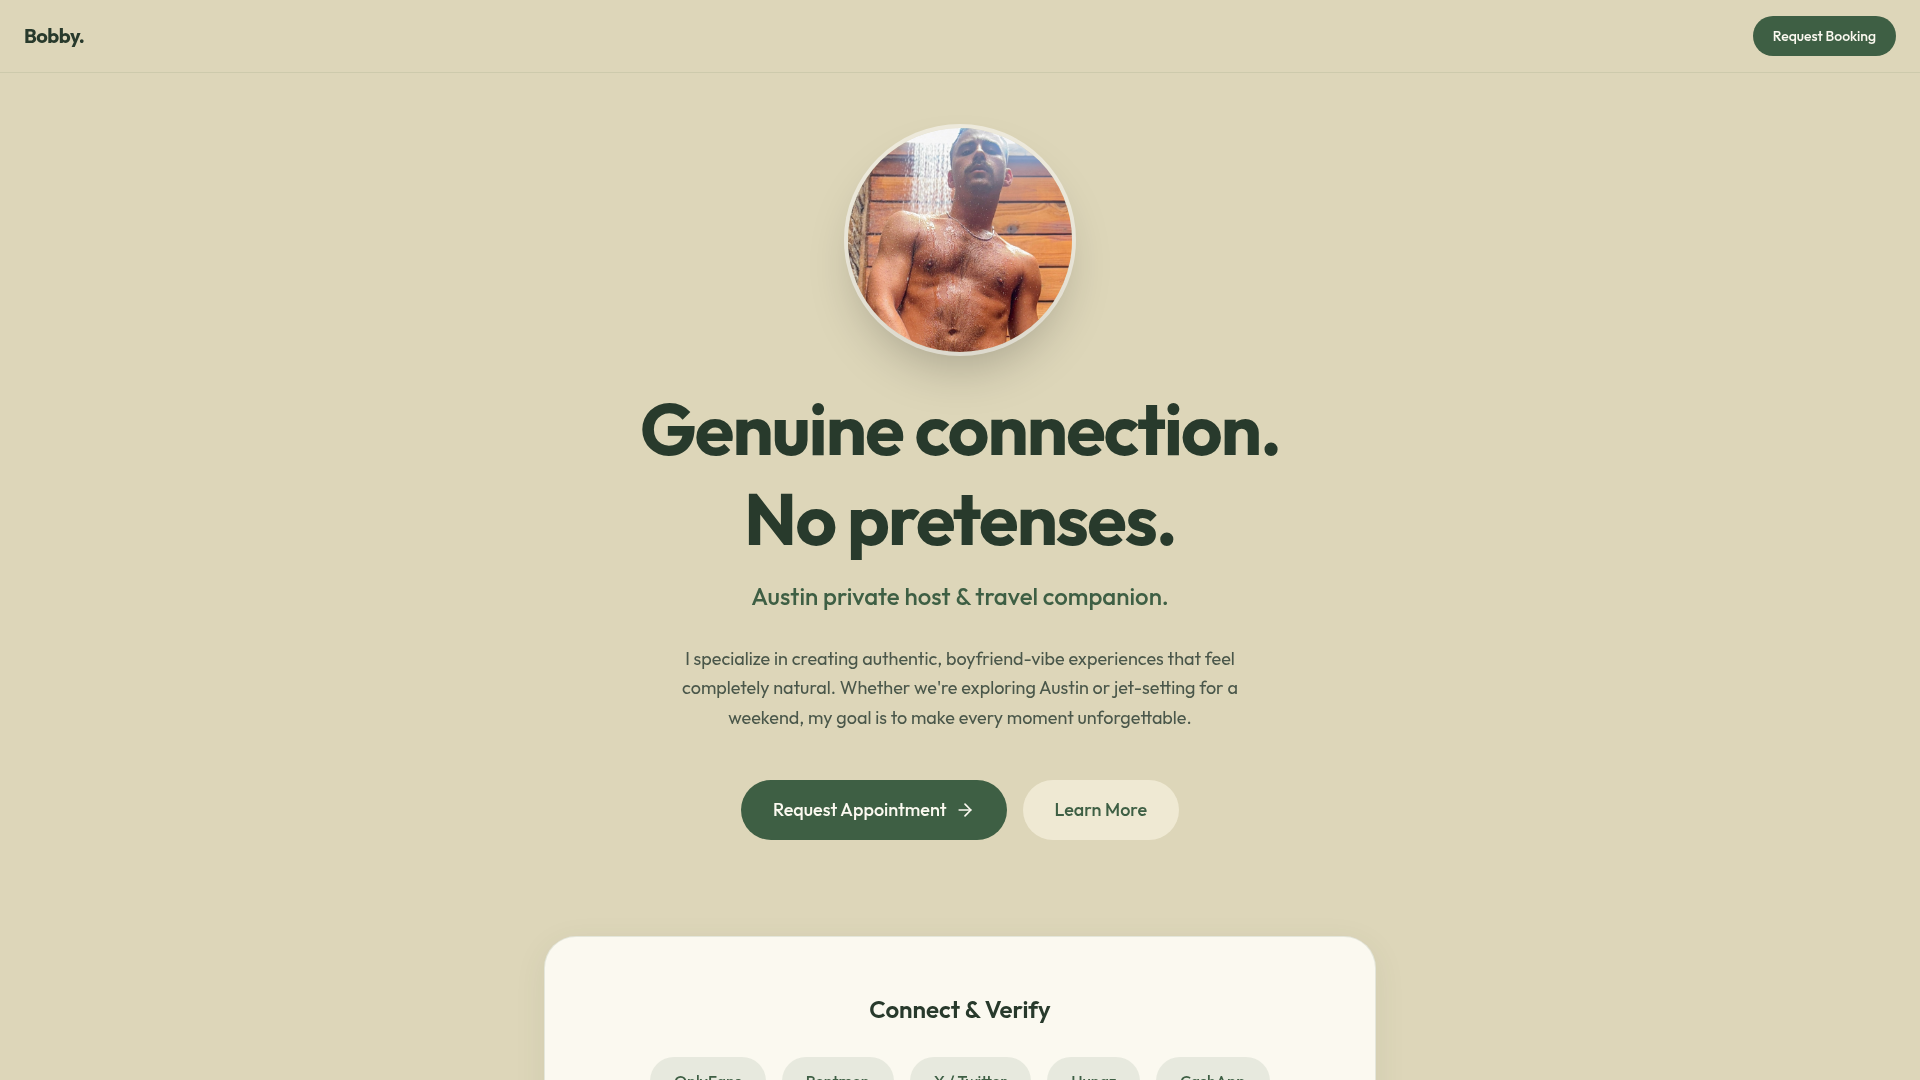
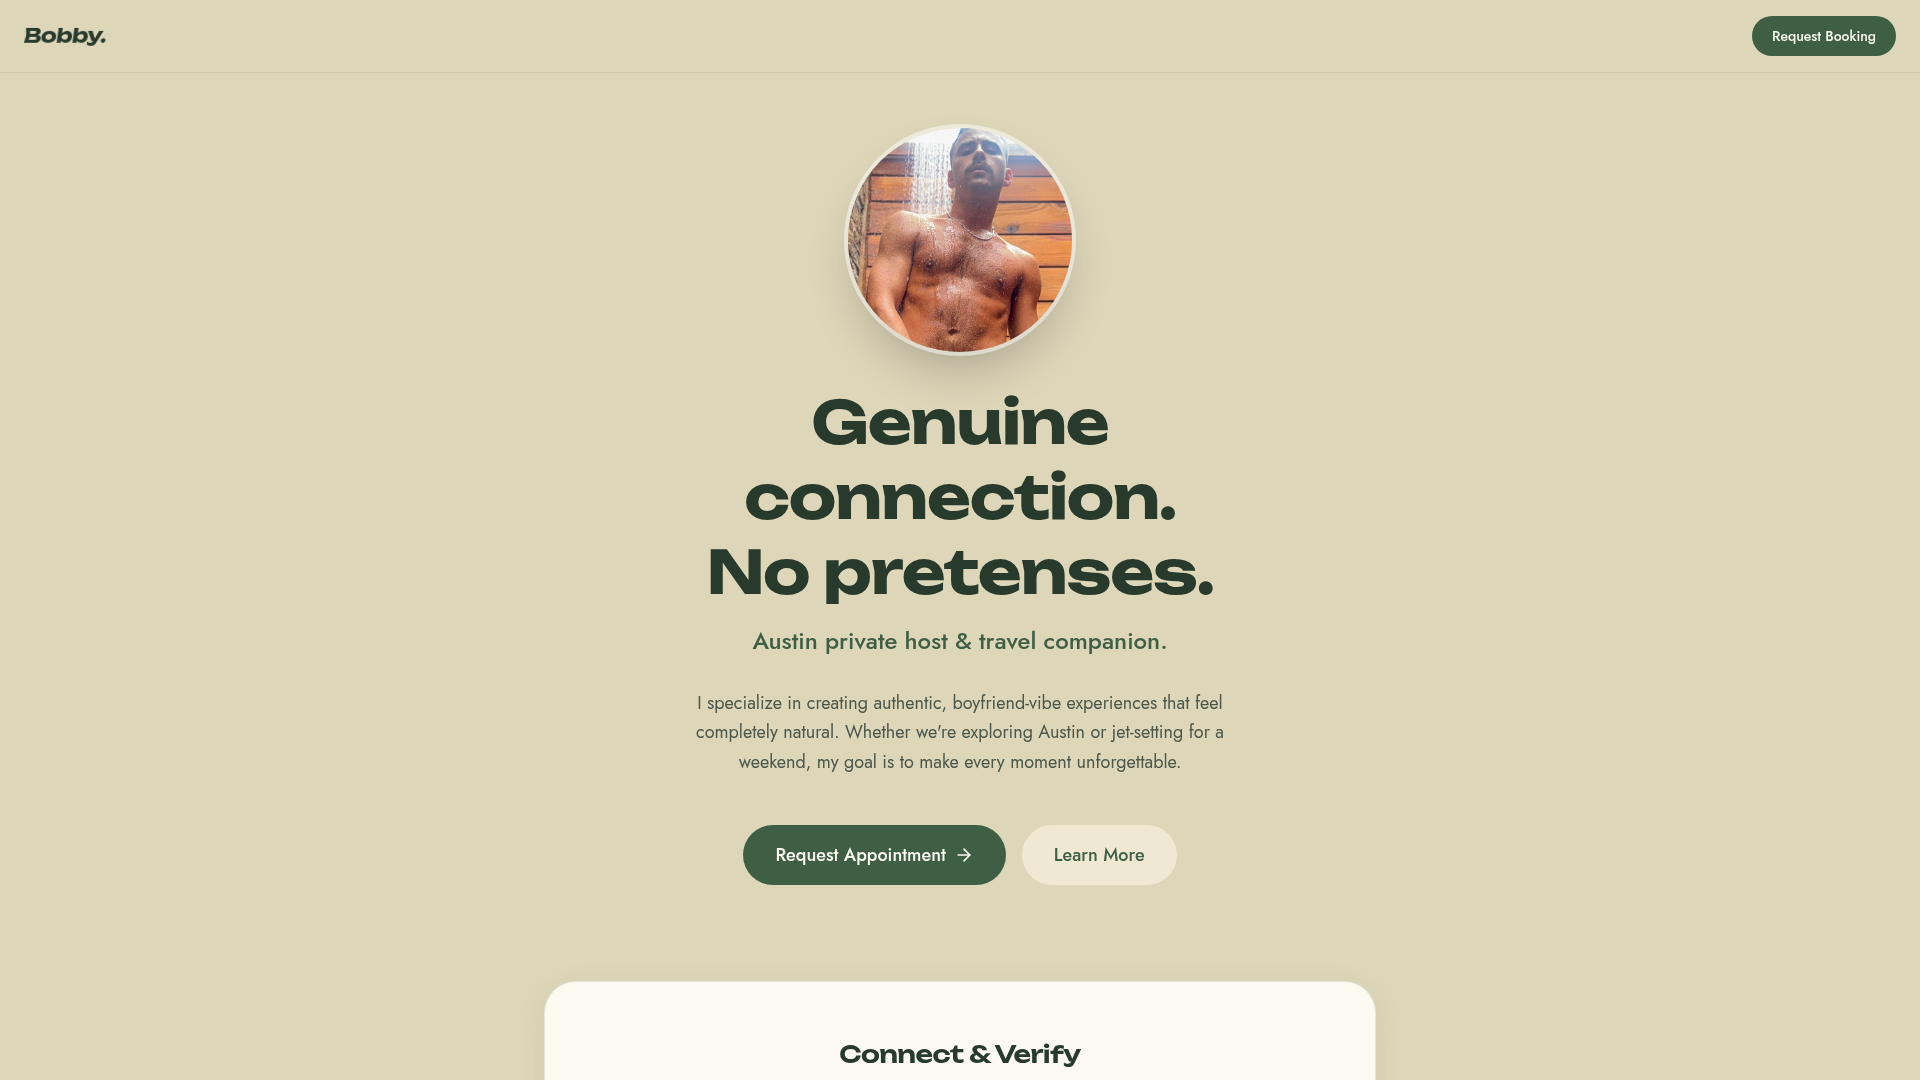
Update typography to a classy retro avant-garde style
Import and apply 'Unbounded' and 'Jost' fonts, skew the logo, and adjust heading sizes in the SoftMinimal component and CSS.

Replit-Commit-Author: Agent
Replit-Commit-Session-Id: b24b1a26-0899-415d-8163-6a52a7d328e2
Replit-Commit-Checkpoint-Type: full_checkpoint
Replit-Commit-Event-Id: 5c577e07-50bf-49da-9b97-6ef248f52470
Replit-Commit-Screenshot-Url: https://storage.googleapis.com/screenshot-production-us-central1/444bd3d0-bffa-443d-9074-ca447ef35a65/b24b1a26-0899-415d-8163-6a52a7d328e2/ofHcsnp
Replit-Helium-Checkpoint-Created: true

diff --git a/artifacts/mockup-sandbox/src/components/mockups/site-redesign/SoftMinimal.tsx b/artifacts/mockup-sandbox/src/components/mockups/site-redesign/SoftMinimal.tsx
@@ -7,7 +7,7 @@ export function SoftMinimal() {
     <div className="soft-minimal-wrapper w-full flex flex-col items-center">
       {/* Sticky Nav */}
       <nav className="fixed top-0 w-full z-50 px-6 py-4 flex justify-between items-center backdrop-blur-xl bg-[#DDD6B9]/80 border-b border-[#3E5F44]/10">
-        <div className="font-['Outfit'] font-bold text-xl tracking-tight">Bobby.</div>
+        <div className="sm-logo text-xl tracking-tight">Bobby.</div>
         <button className="sm-btn-primary px-5 py-2.5 text-sm font-medium flex items-center gap-2">
           Request Booking
         </button>
@@ -25,7 +25,7 @@ export function SoftMinimal() {
             />
           </div>
           <div className="space-y-4 max-w-2xl">
-            <h1 className="text-5xl md:text-7xl font-bold tracking-tight text-[#283A2C] leading-tight">
+            <h1 className="text-4xl md:text-6xl font-bold tracking-tight text-[#283A2C] leading-tight">
               Genuine connection.<br/>No pretenses.
             </h1>
             <p className="text-xl md:text-2xl text-[#3E5F44] font-medium">

diff --git a/artifacts/mockup-sandbox/src/components/mockups/site-redesign/_softminimal.css b/artifacts/mockup-sandbox/src/components/mockups/site-redesign/_softminimal.css
@@ -1,3 +1,5 @@
+@import url('https://fonts.googleapis.com/css2?family=Unbounded:wght@400;500;600;700;800&family=Jost:ital,wght@0,300;0,400;0,500;0,600;0,700;1,400;1,500&display=swap');
+
 :root {
   --sm-bg: #DDD6B9;
   --sm-card: #FBF9F0;
@@ -11,9 +13,25 @@
 .soft-minimal-wrapper {
   background-color: var(--sm-bg);
   color: var(--sm-text);
-  font-family: 'Outfit', -apple-system, BlinkMacSystemFont, "Segoe UI", Roboto, Helvetica, Arial, sans-serif;
+  font-family: 'Jost', -apple-system, BlinkMacSystemFont, "Segoe UI", Roboto, Helvetica, Arial, sans-serif;
+  font-size: 1.02rem;
   -webkit-font-smoothing: antialiased;
   min-height: 100vh;
+}
+
+.soft-minimal-wrapper h1,
+.soft-minimal-wrapper h2,
+.soft-minimal-wrapper h3,
+.soft-minimal-wrapper h4 {
+  font-family: 'Unbounded', 'Jost', sans-serif;
+  letter-spacing: -0.02em;
+}
+
+.sm-logo {
+  font-family: 'Unbounded', sans-serif;
+  font-weight: 700;
+  transform: skewX(-8deg);
+  display: inline-block;
 }
 
 .sm-card {
